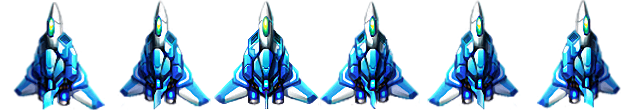
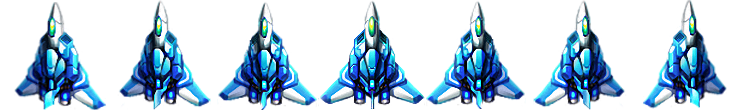
updated ship sprite sheet

diff --git a/Galaxy_Zero/ipad/main.js b/Galaxy_Zero/ipad/main.js
@@ -76,12 +76,13 @@ function create() {
 
     //  The hero!
     player = game.add.sprite(screenWidth/2, screenHeight* 0.8, 'ship');
-    player.animations.add("bankL2", [0,0], 10, true);
-    player.animations.add("bankL1", [1,1], 10, true);
-    player.animations.add("bank0", [2,2], 10, true);
-    player.animations.add("bankR1", [3,3], 10, true);
-    player.animations.add("bankR2", [4,4], 10, true);
-    player.animations.add("bankR3", [5,5], 10, true);
+    player.animations.add("bankL3", [0,0], 10, true);    
+    player.animations.add("bankL2", [1,1], 10, true);
+    player.animations.add("bankL1", [2,2], 10, true);
+    player.animations.add("bank0", [3,3], 10, true);
+    player.animations.add("bankR1", [4,4], 10, true);
+    player.animations.add("bankR2", [5,5], 10, true);
+    player.animations.add("bankR3", [6,6], 10, true);
 
     player.animations.add("fly", [2], 10, true);
     player.play('fly');
@@ -337,20 +338,17 @@ function update() {
 
 
         if (newX - player.x < -20){
+            player.play("bankL3");
+        }
+        else if (newX - player.x < -10 && newX - player.x > -20){
             player.play("bankL2");
-   //         player.scale = 1;
         }
-        else if (newX - player.x < -4 && newX - player.x > -20){
+        else if (player.x - newX < -2 && player.x - newX > -10){
             player.play("bankL1");
-   //         player.scale = 1;
+            player.scale = 1;
         }
-    //    else if (player.x - newX < -2 && player.x - newX > -5){
-    //        player.play("bank1");
-    //        player.scale = 1;
-    //    }
-        else if (newX - player.x < 2 && newX - player.x > -4){
+        else if (newX - player.x < 2 && newX - player.x > -2){
             player.play("bank0");
-    //        player.scale = 1;
         }
         else if (newX - player.x > 2 && newX - player.x < 10){
             player.play("bankR1");
